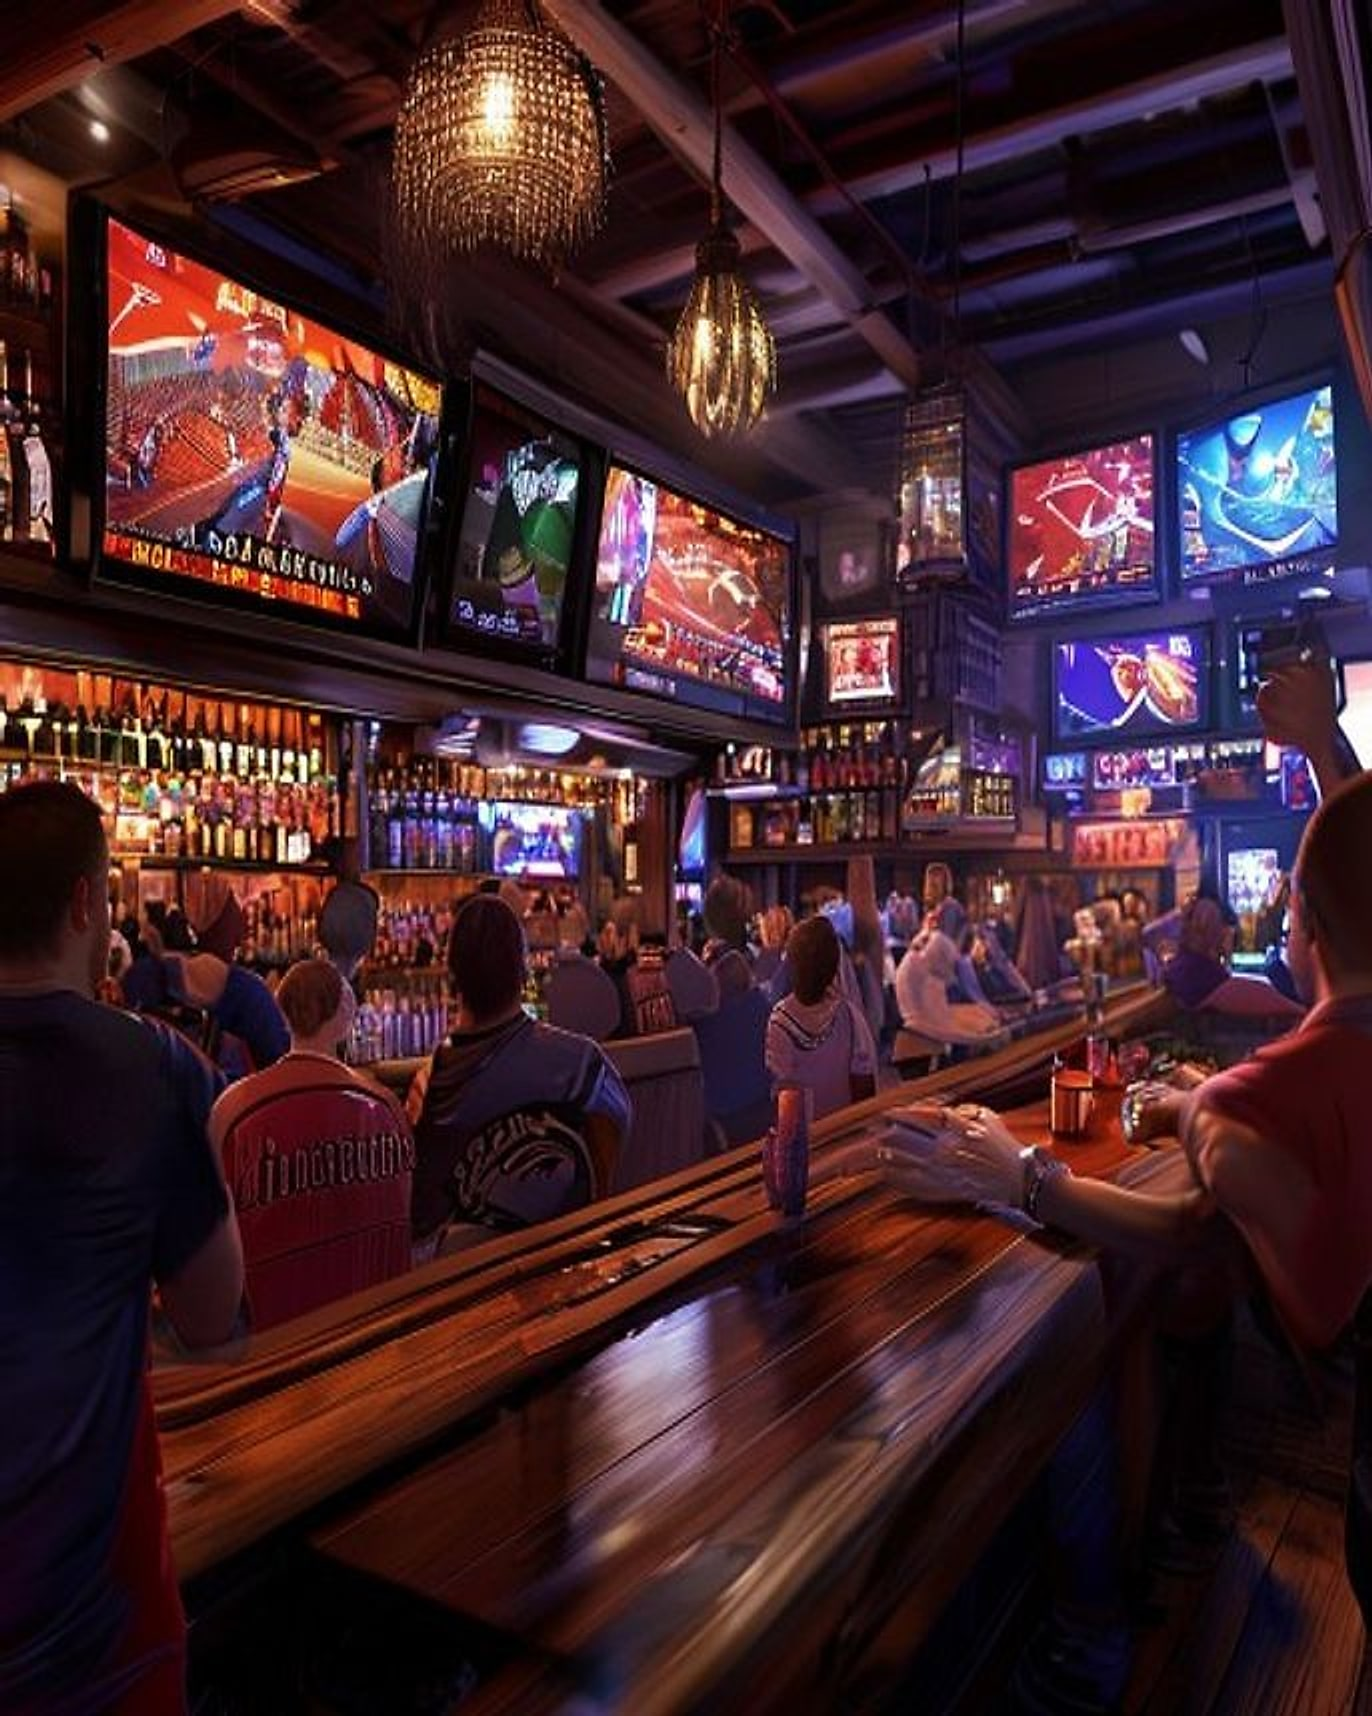
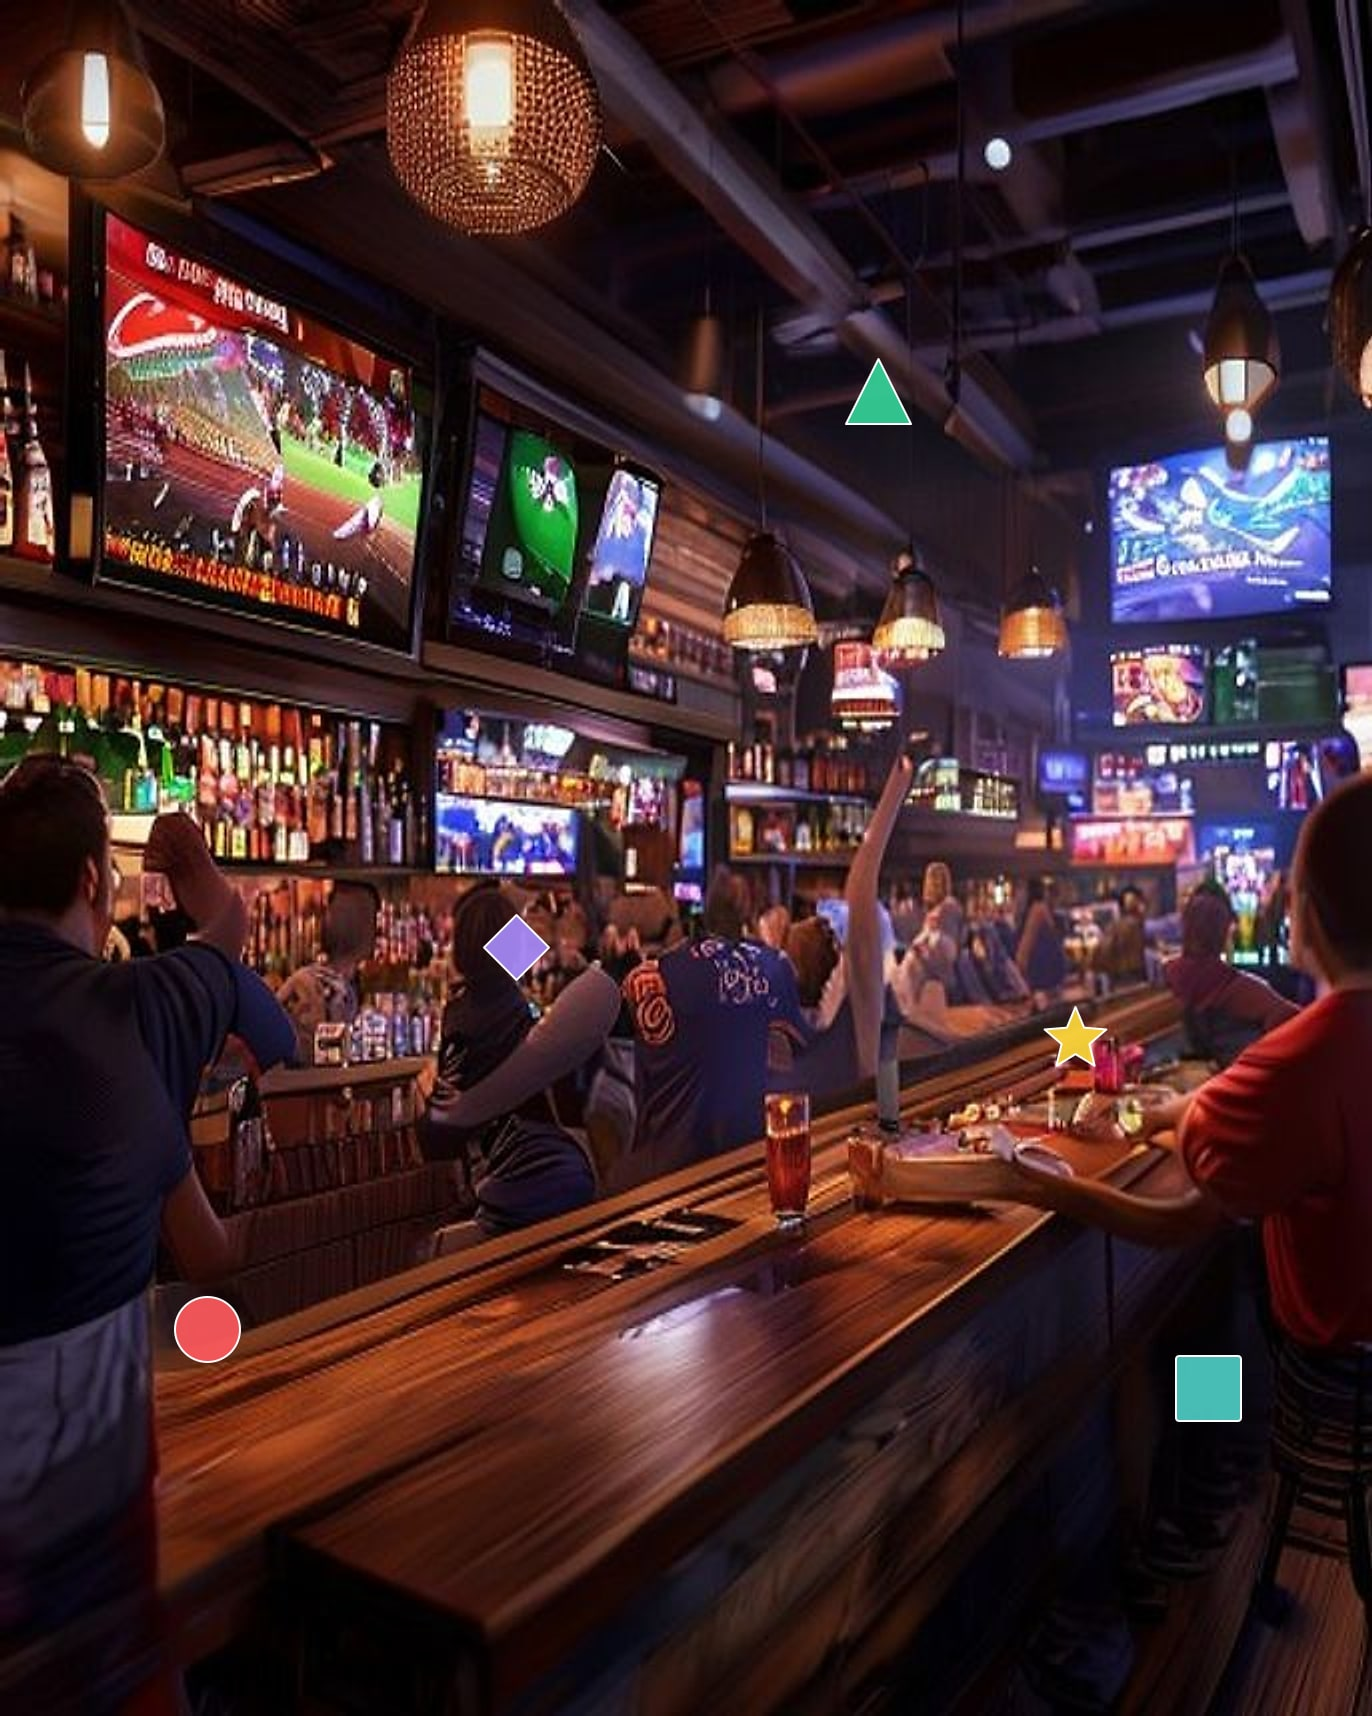
Photo Hunt: exactly 5 differences, guaranteed
Root issue: prior generation used same-seed + variant-prompt to make
imageA vs imageB. That produced N intentional differences (the prompt
swap) but also dozens of incidental ones — Flux interprets prompts
differently per seed-mutation, varying small textures, exact poses,
brushstrokes everywhere. Players saw differences they couldn't
"catch" because those weren't in the hotspot list. Felt broken.

New generation pipeline:
- Generate ONE photoreal scene from Pollinations (same upscale+sharpen
  pipeline as before).
- imageA = that scene, untouched.
- imageB = same scene with 5 colored shape markers composited on via
  Sharp (red circle, teal square, yellow star, purple diamond, green
  triangle). Each marker is ~4% of the longer edge, has a white
  outline so it stays visible on both dark and light backgrounds.
- Marker positions are chosen via a slug-seeded PRNG with a 0.18
  minimum-distance constraint so they never overlap, and a 10% edge
  margin so they never get clipped.
- Hotspots in hotspots.json are at the EXACT marker positions, r=0.07
  (about 2x the marker size — generous tap target).

Result: image A and image B are pixel-identical except for the 5
markers. Player sees exactly 5 differences. Caught = green ring.
No more "I can see a difference but it doesn't register" frustration.

Also updates the How to Play copy to describe the new mechanic.

diff --git a/scripts/generate-pair-pollinations.ts b/scripts/generate-pair-pollinations.ts
@@ -1,32 +1,27 @@
 /**
- * Generate a photo-hunt image pair using Pollinations.ai (free, no API key)
- * + Gemini Vision (free) for diff detection + coordinate localization.
+ * Generate a photo-hunt image pair with EXACTLY N differences.
  *
- * Why this hybrid:
- *   - Pollinations is fully free and unmetered, but doesn't support
- *     image-to-image. We coax related pairs by reusing the same seed and
- *     mutating the prompt — Flux + a stable seed produces broadly
- *     identical compositions with the new element folded in.
- *   - Gemini Vision (free on text/vision endpoints) does the real work
- *     of finding and localizing the diffs against image B.
+ * Why this approach:
+ *   Earlier versions generated A and B from same-seed + slightly-different
+ *   prompts. That produces broadly-similar but not-identical images — many
+ *   incidental textural/positional variations the player can see but can't
+ *   "catch" because they're not in the hotspot list. Frustrating UX.
+ *
+ *   Now: generate ONE photoreal scene, save as imageA. Composite N colored
+ *   markers onto a copy of that same image, save as imageB. The N markers
+ *   are the ONLY differences. Hotspots match marker positions exactly.
  *
  * Usage:
  *   GEMINI_API_KEY=xxx npx tsx scripts/generate-pair-pollinations.ts \
  *     --slug neon-dive \
  *     --title "Neon Dive" \
- *     --base "crowded neon dive bar at night photoreal jukebox pool table beer signs" \
- *     --variant "crowded neon dive bar at night photoreal vintage record player pool table vintage posters" \
- *     --seed 42
- *
- * Output:
- *   assets/puzzles/<slug>/imageA.jpg
- *   assets/puzzles/<slug>/imageB.jpg
- *   assets/puzzles/<slug>/hotspots.json
+ *     --base "crowded neon dive bar at night, photoreal, ..." \
+ *     --seed 42 \
+ *     --diffs 5
  */
 
 import { mkdir, writeFile } from 'node:fs/promises';
 import { join } from 'node:path';
-import { GoogleGenerativeAI } from '@google/generative-ai';
 import sharp from 'sharp';
 
 type Hotspot = { id: string; x: number; y: number; r: number; hint: string };
@@ -45,28 +40,17 @@ const args = Object.fromEntries(
 const SLUG = args.slug ?? `puzzle-${Date.now()}`;
 const TITLE = args.title ?? SLUG;
 const BASE = args.base;
-const VARIANT = args.variant;
 const SEED = args.seed ?? String(Math.floor(Math.random() * 100000));
-// Bump resolution: 1280x1600 (same 4:5 ratio, sharper detail). Pollinations'
-// flux-realism handles this well and the larger files are still under 200KB.
 const WIDTH = Number(args.width ?? 1280);
 const HEIGHT = Number(args.height ?? 1600);
-// flux-realism for photoreal bar/arcade scenes; flux is more generic.
 const MODEL = args.model ?? 'flux-realism';
+const DIFF_COUNT = Number(args.diffs ?? 5);
 const OUT_DIR = `./assets/puzzles/${SLUG}`;
 
-if (!BASE || !VARIANT) {
-  console.error('Required: --base "<prompt>" and --variant "<prompt>"');
+if (!BASE) {
+  console.error('Required: --base "<prompt>"');
   process.exit(1);
 }
-
-const API_KEY = process.env.GEMINI_API_KEY;
-if (!API_KEY) {
-  console.error('Missing GEMINI_API_KEY. Get one at https://aistudio.google.com/apikey');
-  process.exit(1);
-}
-
-const genAI = new GoogleGenerativeAI(API_KEY);
 
 async function pollinations(prompt: string, seed: string): Promise<Buffer> {
   const url =
@@ -78,11 +62,6 @@ async function pollinations(prompt: string, seed: string): Promise<Buffer> {
   return Buffer.from(ab);
 }
 
-/**
- * Pollinations' free tier caps output at ~686x858 regardless of the size
- * we request. Upscale 2x with Lanczos resampling and apply an unsharp mask
- * so the final image renders crisp at modern phone/desktop resolutions.
- */
 async function upscaleAndSharpen(input: Buffer): Promise<Buffer> {
   const meta = await sharp(input).metadata();
   const targetW = (meta.width ?? 686) * 2;
@@ -93,71 +72,149 @@ async function upscaleAndSharpen(input: Buffer): Promise<Buffer> {
     .toBuffer();
 }
 
-async function locateDiffs(imageA: Buffer, imageB: Buffer): Promise<Hotspot[]> {
-  const model = genAI.getGenerativeModel({ model: 'gemini-2.5-flash' });
-  const result = await model.generateContent([
-    {
-      text:
-        `These are two photo-hunt images from a spot-the-difference game. ` +
-        `Identify 3 to 6 small visible differences between image A and image B. ` +
-        `For each difference, return the center coordinates and radius of a circular ` +
-        `tappable hotspot that surrounds the changed region in image B, as normalized ` +
-        `values (0.0 = top/left, 1.0 = bottom/right). Use a radius small enough to feel ` +
-        `precise but big enough to forgive tap accuracy (typically 0.07-0.12).\n\n` +
-        `Respond with ONLY a JSON array, no markdown fences, no commentary, in this exact shape:\n` +
-        `[{"id":"h1","x":0.42,"y":0.31,"r":0.09,"hint":"short user-facing hint"}]`,
-    },
-    { inlineData: { mimeType: 'image/jpeg', data: imageA.toString('base64') } },
-    { inlineData: { mimeType: 'image/jpeg', data: imageB.toString('base64') } },
-  ]);
-  const text = result.response.text().trim();
-  const jsonText = text
-    .replace(/^```(?:json)?\s*/i, '')
-    .replace(/\s*```\s*$/i, '')
-    .trim();
-  const parsed = JSON.parse(jsonText) as Hotspot[];
-  return parsed.map((h, i) => ({
-    id: h.id ?? `h${i + 1}`,
-    x: clamp01(Number(h.x)),
-    y: clamp01(Number(h.y)),
-    // Generous radius floor (0.13) — Gemini's coord detection isn't
-    // pixel-precise, so we widen the tappable target. Players still need
-    // to identify the right area; they just don't have to nail dead-center.
-    r: clamp(Number(h.r) || 0.13, 0.13, 0.20),
-    hint: h.hint ?? '',
-  }));
+// Five distinct color/shape combinations for the markers. Each is sized to
+// be clearly findable but small enough that it doesn't dominate the scene.
+// White outline ensures visibility against both dark and light backgrounds.
+type Marker = { color: string; shape: 'circle' | 'square' | 'triangle' | 'diamond' | 'star'; label: string };
+const MARKERS: Marker[] = [
+  { color: '#ff5a5f', shape: 'circle', label: 'red circle' },
+  { color: '#4ecdc4', shape: 'square', label: 'teal square' },
+  { color: '#ffd93d', shape: 'star', label: 'yellow star' },
+  { color: '#a78bfa', shape: 'diamond', label: 'purple diamond' },
+  { color: '#34d399', shape: 'triangle', label: 'green triangle' },
+];
+
+function shapeSvg(shape: Marker['shape'], size: number, color: string): string {
+  const s = size;
+  const c = s / 2;
+  const r = s / 2 - 2;
+  switch (shape) {
+    case 'circle':
+      return `<circle cx="${c}" cy="${c}" r="${r}" fill="${color}" fill-opacity="0.92" stroke="white" stroke-width="2"/>`;
+    case 'square': {
+      const pad = 2;
+      return `<rect x="${pad}" y="${pad}" width="${s - 2 * pad}" height="${s - 2 * pad}" fill="${color}" fill-opacity="0.92" stroke="white" stroke-width="2" rx="3"/>`;
+    }
+    case 'triangle':
+      return `<polygon points="${c},2 ${s - 2},${s - 2} 2,${s - 2}" fill="${color}" fill-opacity="0.92" stroke="white" stroke-width="2" stroke-linejoin="round"/>`;
+    case 'diamond':
+      return `<polygon points="${c},2 ${s - 2},${c} ${c},${s - 2} 2,${c}" fill="${color}" fill-opacity="0.92" stroke="white" stroke-width="2" stroke-linejoin="round"/>`;
+    case 'star': {
+      const o = c;
+      const outer = c - 2;
+      const inner = outer * 0.45;
+      const pts: string[] = [];
+      for (let i = 0; i < 10; i++) {
+        const angle = (Math.PI / 5) * i - Math.PI / 2;
+        const radius = i % 2 === 0 ? outer : inner;
+        pts.push(`${o + radius * Math.cos(angle)},${o + radius * Math.sin(angle)}`);
+      }
+      return `<polygon points="${pts.join(' ')}" fill="${color}" fill-opacity="0.92" stroke="white" stroke-width="2" stroke-linejoin="round"/>`;
+    }
+  }
 }
 
-function clamp(n: number, lo: number, hi: number) {
-  if (Number.isNaN(n)) return (lo + hi) / 2;
-  return Math.max(lo, Math.min(hi, n));
+function markerSvg(marker: Marker, size: number): Buffer {
+  return Buffer.from(
+    `<svg xmlns="http://www.w3.org/2000/svg" width="${size}" height="${size}">${shapeSvg(marker.shape, size, marker.color)}</svg>`,
+  );
 }
-function clamp01(n: number) {
-  return clamp(n, 0, 1);
+
+/**
+ * Deterministic PRNG so each puzzle slug gives reproducible marker layout.
+ * Tiny mulberry32 implementation seeded from the slug.
+ */
+function rngFromSeed(seed: string): () => number {
+  let h = 1779033703 ^ seed.length;
+  for (let i = 0; i < seed.length; i++) {
+    h = Math.imul(h ^ seed.charCodeAt(i), 3432918353);
+    h = (h << 13) | (h >>> 19);
+  }
+  let a = h >>> 0;
+  return () => {
+    a |= 0;
+    a = (a + 0x6D2B79F5) | 0;
+    let t = Math.imul(a ^ (a >>> 15), 1 | a);
+    t = (t + Math.imul(t ^ (t >>> 7), 61 | t)) ^ t;
+    return ((t ^ (t >>> 14)) >>> 0) / 4294967296;
+  };
+}
+
+/**
+ * Pick N normalized positions, each at least MIN_DIST apart and inside a
+ * safety margin from the edges so the marker can never get clipped.
+ */
+function pickPositions(seed: string, n: number): { x: number; y: number }[] {
+  const rng = rngFromSeed(seed);
+  const positions: { x: number; y: number }[] = [];
+  const MIN_DIST = 0.18;
+  const MARGIN = 0.10;
+  let attempts = 0;
+  while (positions.length < n && attempts < 500) {
+    attempts++;
+    const x = MARGIN + rng() * (1 - 2 * MARGIN);
+    const y = MARGIN + rng() * (1 - 2 * MARGIN);
+    const ok = positions.every((p) => Math.hypot(p.x - x, p.y - y) > MIN_DIST);
+    if (ok) positions.push({ x, y });
+  }
+  if (positions.length < n) {
+    throw new Error(`Could not place ${n} markers with min-distance ${MIN_DIST}; got ${positions.length}`);
+  }
+  return positions;
+}
+
+async function applyMarkers(
+  baseImg: Buffer,
+  positions: { x: number; y: number }[],
+): Promise<{ image: Buffer; hotspots: Hotspot[] }> {
+  const meta = await sharp(baseImg).metadata();
+  const w = meta.width!;
+  const h = meta.height!;
+  // Marker size scales with image — 4% of the longer edge feels right.
+  const markerSize = Math.round(Math.max(w, h) * 0.04);
+
+  const composites = positions.map((pos, i) => {
+    const marker = MARKERS[i % MARKERS.length];
+    const svg = markerSvg(marker, markerSize);
+    const left = Math.max(0, Math.round(pos.x * w - markerSize / 2));
+    const top = Math.max(0, Math.round(pos.y * h - markerSize / 2));
+    return { input: svg, left, top };
+  });
+
+  const image = await sharp(baseImg).composite(composites).jpeg({ quality: 88, mozjpeg: true }).toBuffer();
+
+  const hotspots: Hotspot[] = positions.map((pos, i) => ({
+    id: `h${i + 1}`,
+    x: pos.x,
+    y: pos.y,
+    // Slightly larger than the marker itself so taps near the marker still register.
+    r: 0.07,
+    hint: MARKERS[i % MARKERS.length].label,
+  }));
+
+  return { image, hotspots };
 }
 
 async function main() {
   await mkdir(OUT_DIR, { recursive: true });
 
-  console.log(`[${SLUG}] 1. Generating image A from Pollinations…`);
-  const aRaw = await pollinations(BASE!, SEED);
-  console.log(`[${SLUG}]    upscaling + sharpening A…`);
-  const a = await upscaleAndSharpen(aRaw);
-  await writeFile(join(OUT_DIR, 'imageA.jpg'), a);
+  console.log(`[${SLUG}] 1. Generating base scene from Pollinations…`);
+  const baseRaw = await pollinations(BASE!, SEED);
+  console.log(`[${SLUG}]    upscaling + sharpening…`);
+  const base = await upscaleAndSharpen(baseRaw);
+  // Image A is the clean base scene.
+  await writeFile(join(OUT_DIR, 'imageA.jpg'), base);
 
-  console.log(`[${SLUG}] 2. Generating image B (same seed, mutated prompt)…`);
-  const bRaw = await pollinations(VARIANT!, SEED);
-  console.log(`[${SLUG}]    upscaling + sharpening B…`);
-  const b = await upscaleAndSharpen(bRaw);
-  await writeFile(join(OUT_DIR, 'imageB.jpg'), b);
+  console.log(`[${SLUG}] 2. Picking ${DIFF_COUNT} marker positions…`);
+  const positions = pickPositions(SLUG, DIFF_COUNT);
+  positions.forEach((p, i) => {
+    const m = MARKERS[i % MARKERS.length];
+    console.log(`   ${m.shape} (${m.color}) at (${p.x.toFixed(2)}, ${p.y.toFixed(2)})`);
+  });
 
-  console.log(`[${SLUG}] 3. Asking Gemini Vision to find diffs and locate them…`);
-  // Send the upscaled images so Gemini's hotspot coords reference the
-  // same image the player will see.
-  const hotspots = await locateDiffs(a, b);
-  hotspots.forEach((h) =>
-    console.log(`  ${h.id}: (${h.x.toFixed(2)}, ${h.y.toFixed(2)}) r=${h.r.toFixed(2)} — ${h.hint}`),
-  );
+  console.log(`[${SLUG}] 3. Compositing markers onto image B…`);
+  const { image: imageB, hotspots } = await applyMarkers(base, positions);
+  await writeFile(join(OUT_DIR, 'imageB.jpg'), imageB);
 
   await writeFile(
     join(OUT_DIR, 'hotspots.json'),
@@ -166,10 +223,8 @@ async function main() {
         title: TITLE,
         slug: SLUG,
         basePrompt: BASE,
-        variantPrompt: VARIANT,
         seed: SEED,
-        width: WIDTH,
-        height: HEIGHT,
+        markerCount: DIFF_COUNT,
         hotspots,
         generatedAt: new Date().toISOString(),
       },
@@ -178,7 +233,7 @@ async function main() {
     ),
   );
 
-  console.log(`[${SLUG}] Done. ${hotspots.length} hotspots written.`);
+  console.log(`[${SLUG}] Done. ${hotspots.length} markers placed. ${hotspots.length} hotspots written.`);
 }
 
 main().catch((err) => {

diff --git a/app/games/photo-hunt/[id].tsx b/app/games/photo-hunt/[id].tsx
@@ -118,11 +118,12 @@ export default function PhotoHuntScreen() {
         <View style={styles.howTo}>
           <Text style={styles.howToHeader}>How to play</Text>
           <Text style={styles.howToBody}>
-            Two scenes. <Text style={styles.howToStrong}>{puzzle.hotspots.length}</Text> small
-            differences hidden in image{' '}
-            <Text style={styles.howToStrong}>B</Text>. Tap a difference in{' '}
-            <Text style={styles.howToStrong}>either</Text> image — a green ring confirms a
-            hit on both. Find them all before the clock runs out.
+            Image <Text style={styles.howToStrong}>A</Text> is the clean scene. Image{' '}
+            <Text style={styles.howToStrong}>B</Text> has{' '}
+            <Text style={styles.howToStrong}>{puzzle.hotspots.length}</Text> small colored
+            markers added to it. Tap each marker (on either image) to capture it — a green
+            ring confirms a hit. Stuck? Hit{' '}
+            <Text style={styles.howToStrong}>Show hints</Text> to reveal where they are.
           </Text>
         </View>
 